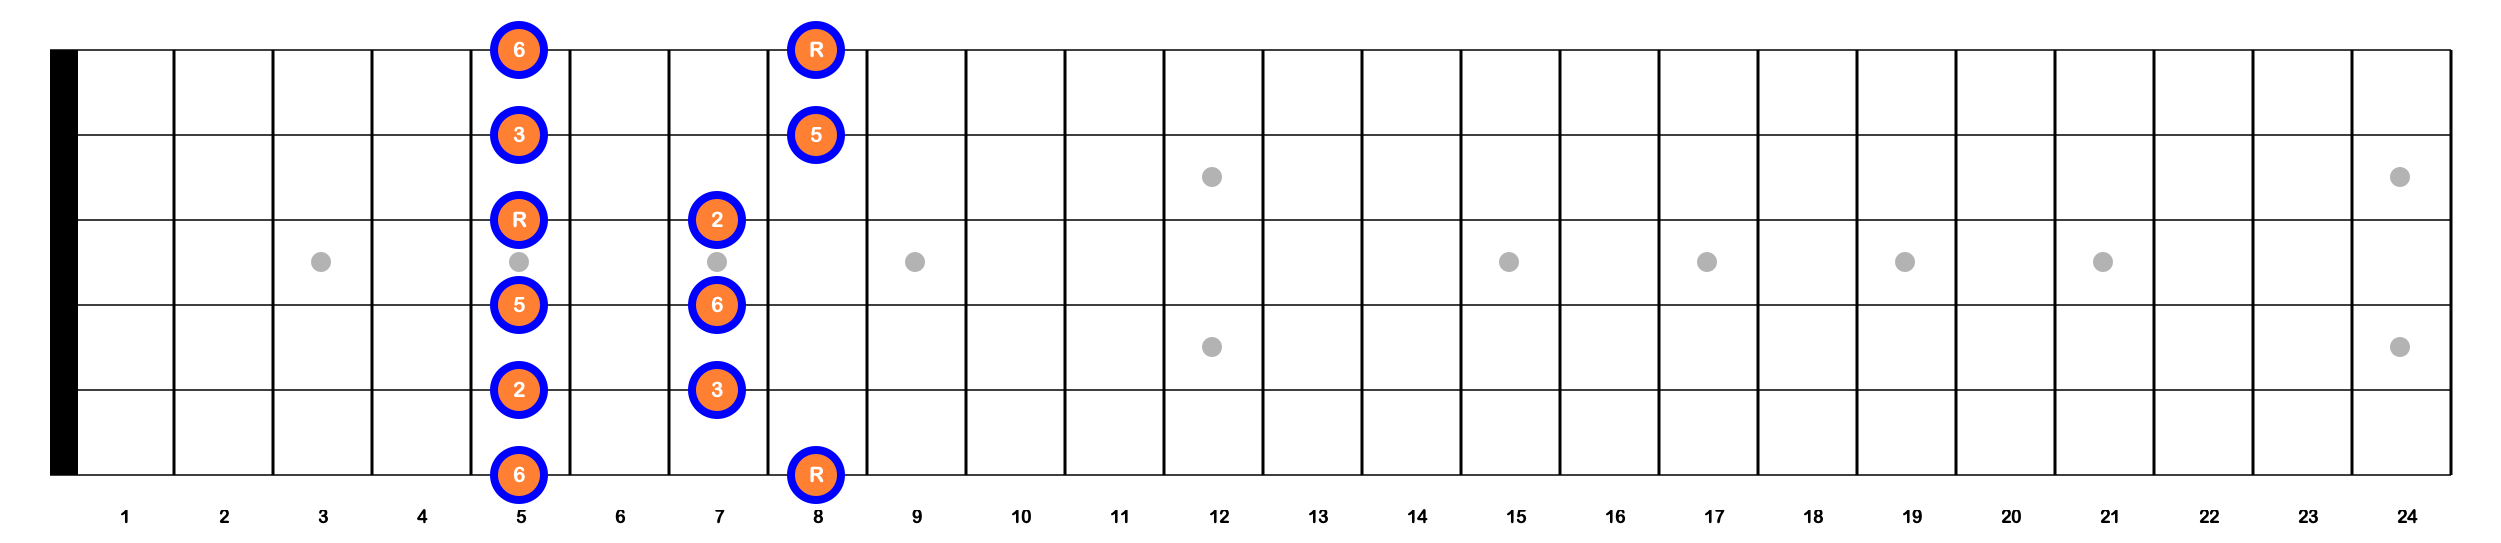
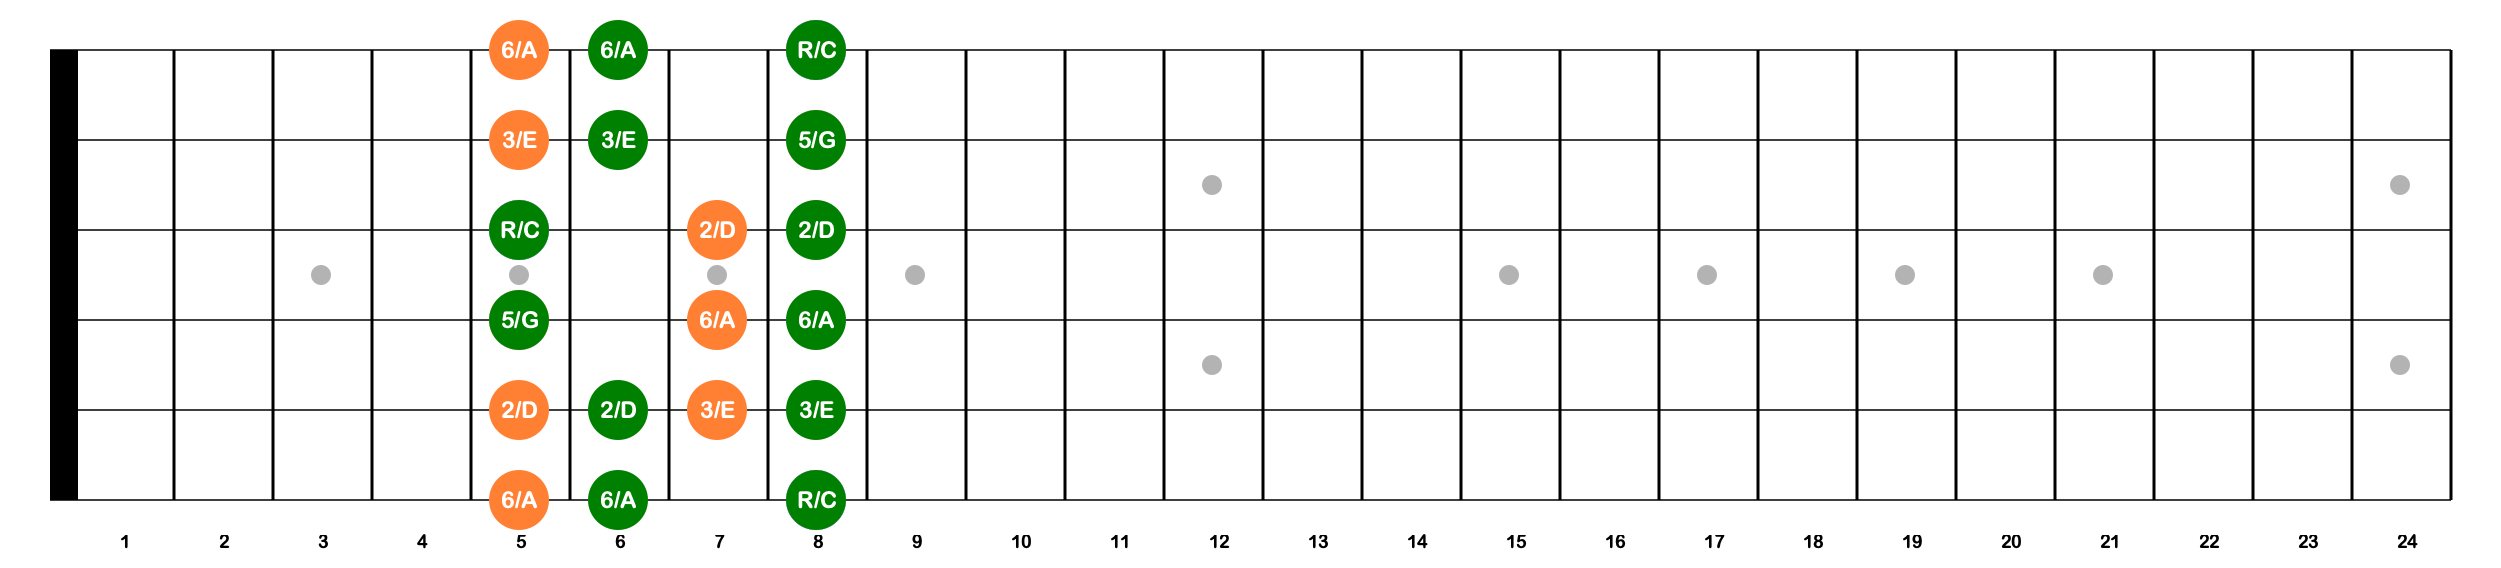
1

diff --git a/test.py b/test.py
@@ -12,16 +12,17 @@ C_TEXT_COLOR = (1, 1, 1)      # White
 ORANGE_COLOR = (1, 0.5, 0.2)    # Vibrant Orange
 BLUE_COLOR = (0, 0, 1)          # Vivid Blue
 GREEN_COLOR = (0, 0.502, 0)     # Rich Green
+WHITE_COLOR = (1, 1, 1)     # white Green
 
 # --- Custom Drawing Settings ---
-C_RADIUS = 21                 # Radius for the custom circles
-C_STROKE_WIDTH = 16           # Stroke width for the custom circles
+C_RADIUS = 30                 # Radius for the custom circles
+C_STROKE_WIDTH = 12           # Stroke width for the custom circles
 
 # --- Settings ---
 NUM_FRETS = 24
 NUM_STRINGS = 6
 FRET_WIDTH = 96
-NECK_WIDTH = 425
+NECK_WIDTH = 450
 FONT_SIZE = 18
 NUT_WIDTH = 28
 PADDING = 100
@@ -111,7 +112,7 @@ def draw_fret_circle2(ctx, color, radius, fret, string, label_text, label_color,
 
     # Draw label
     ctx.select_font_face(FONT, cairo.FONT_SLANT_NORMAL, cairo.FONT_WEIGHT_BOLD) 
-    ctx.set_font_size(radius)  
+    ctx.set_font_size(radius-7)  
     ctx.set_source_rgb(*label_color) 
 
     text_extents = ctx.text_extents(label_text)
@@ -119,13 +120,40 @@ def draw_fret_circle2(ctx, color, radius, fret, string, label_text, label_color,
     ctx.show_text(label_text)
 
 # Data and function call to draw circles based on predefined data
-c_data = [(5, 6, "6"), (8, 6, "R"), (5, 5, "2"), (7, 5, "3"), (5, 4, "5"), (7, 4, "6"), (5, 3, "R"), (7, 3, "2"), (5, 2, "3"), (8, 2, "5"), (5, 1, "6"), (8, 1, "R")]
+c_data_pentatonic_c_pos1 = [
+
+    (6, 5, "6/A", ORANGE_COLOR, 0, WHITE_COLOR), (6, 8, "R/C", BLUE_COLOR, 0, WHITE_COLOR), 
+    (5, 5, "2/D", ORANGE_COLOR, 0, WHITE_COLOR), (5, 7, "3/E", ORANGE_COLOR, 0, WHITE_COLOR), 
+    (4, 5, "5/G", ORANGE_COLOR, 0, WHITE_COLOR), (4, 7, "6/A", ORANGE_COLOR, 0, WHITE_COLOR), 
+    (3, 5, "R/C", BLUE_COLOR, 0, WHITE_COLOR), (3, 7, "2/D", ORANGE_COLOR, 0, WHITE_COLOR), 
+    (2, 5, "3/E", ORANGE_COLOR, 0, WHITE_COLOR), (2, 8, "5/G", ORANGE_COLOR, 0, WHITE_COLOR), 
+    (1, 5, "6/A", ORANGE_COLOR, 0, WHITE_COLOR), (1, 8, "R/C", BLUE_COLOR, 0, WHITE_COLOR)
+
+    ]
+
+c_data_pentatonic_cm_pos5 = [
+
+    (6, 6, "6/A", GREEN_COLOR, 0, WHITE_COLOR), (6, 8, "R/C", GREEN_COLOR, 0, WHITE_COLOR), 
+    (5, 6, "2/D", GREEN_COLOR, 0, WHITE_COLOR), (5, 8, "3/E", GREEN_COLOR, 0, WHITE_COLOR), 
+    (4, 5, "5/G", GREEN_COLOR, 0, WHITE_COLOR), (4, 8, "6/A", GREEN_COLOR, 0, WHITE_COLOR), 
+    (3, 5, "R/C", GREEN_COLOR, 0, WHITE_COLOR), (3, 8, "2/D", GREEN_COLOR, 0, WHITE_COLOR), 
+    (2, 6, "3/E", GREEN_COLOR, 0, WHITE_COLOR), (2, 8, "5/G", GREEN_COLOR, 0, WHITE_COLOR), 
+    (1, 6, "6/A", GREEN_COLOR, 0, WHITE_COLOR), (1, 8, "R/C", GREEN_COLOR, 0, WHITE_COLOR)
+
+    ]
 
 def draw_circles_from_data(ctx, data):
-    for fret, string, label_text in data:
-        draw_fret_circle2(ctx, ORANGE_COLOR, C_RADIUS, fret, string, label_text, C_TEXT_COLOR, BLUE_COLOR, C_STROKE_WIDTH)
+    for string, fret, label_text, main_color, stroked, stroke_color in data:
+        stroke_width = 0
+        if stroked:
+            stroke_width = C_STROKE_WIDTH
+        draw_fret_circle2(ctx, main_color, C_RADIUS, fret, string, label_text, C_TEXT_COLOR, stroke_color, stroke_width)
 
-draw_circles_from_data(ctx, c_data)
+# -------------- custom drawing -----------------
+
+
+draw_circles_from_data(ctx, c_data_pentatonic_c_pos1)
+draw_circles_from_data(ctx, c_data_pentatonic_cm_pos5)
 
 # --- Save Image ---
 surface.write_to_png("fret.png")
